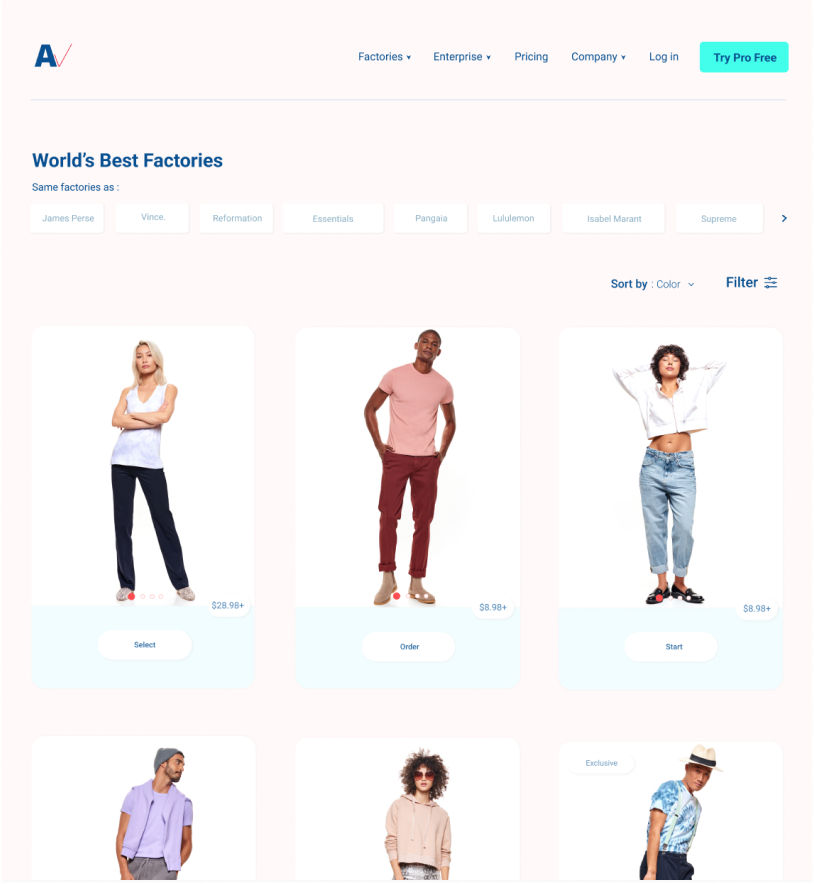
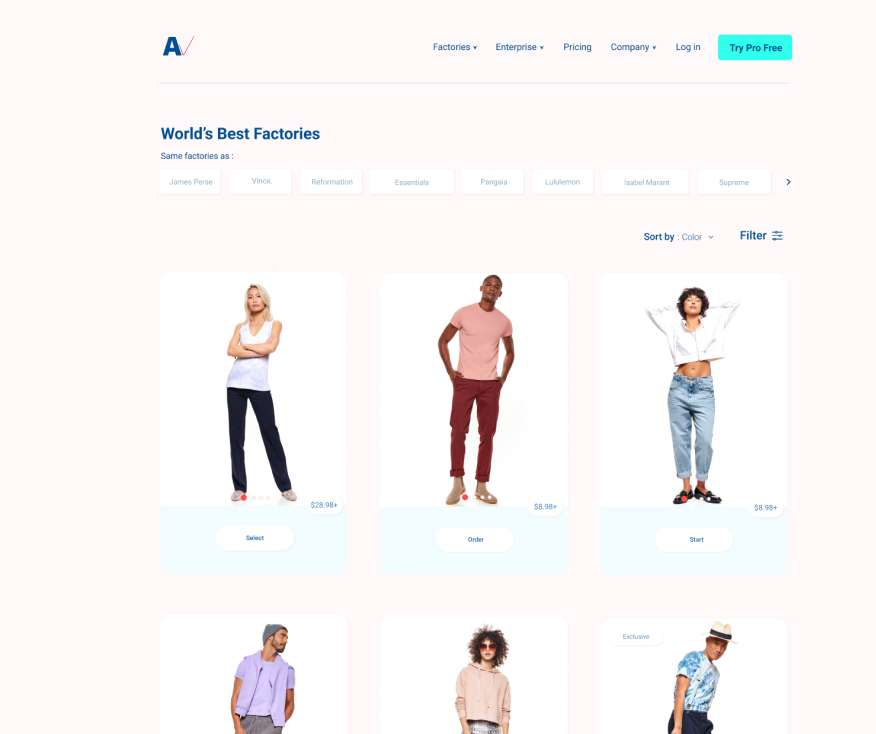
changes

diff --git a/finalCover2/cover.css b/finalCover2/cover.css
@@ -112,7 +112,8 @@
 
 .brands-section-2{
     /* width: 450px; */
-    height: 405px;
+    height: 367px;
+    width: 747px;
     margin-left: -10px;
 }
 
@@ -136,7 +137,7 @@
     width: auto;
     min-width: 120px;
     display: flex;
-    margin: auto 0 auto 90px;
+    margin: auto 0 auto 120px;
 
 }
 
@@ -734,7 +735,8 @@ max-width: 250px;
     }
     
     .brands-section-2{
-        width: 350px;
+        height: 360px;
+        width: 730px;
     }
 
     .brands-illustration{
@@ -751,6 +753,9 @@ max-width: 250px;
     .carouselItem.in{
         width: 650px;
     }
+    .bi-carousel-title{
+        margin-left: 140px;
+    }
 }
 
 @media (max-width:1100px) {
@@ -764,8 +769,10 @@ max-width: 250px;
     }
     
     .brands-section-2{
-        width: 280px;
+        /* width: 280px; */
+        margin-left: -80px;
     }
+   
 }
 
 @media (max-width:1050px) {
@@ -870,7 +877,7 @@ max-width: 250px;
         font-size: 0.75rem;
         line-height: 0.87rem;
         min-width: 85px;
-        margin-left: 91px;
+        margin-left: 110px;
     }
     .bi-carousel-col2{
         padding-left: 15px !important;

diff --git a/shared.css b/shared.css
@@ -30,7 +30,7 @@
 
   .main-header{
     display: flex;
-    padding: 3.1rem 3.1rem 1.3rem;
+    padding: 1.8rem 3.1rem 1.3rem;
     justify-content: space-between;
   }
 
